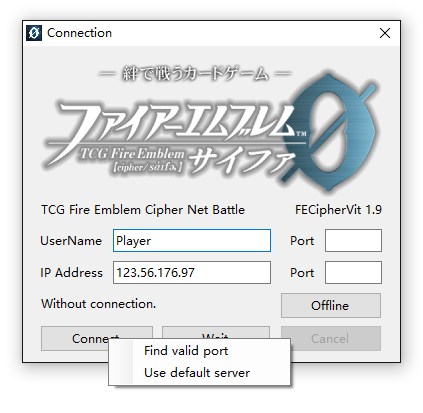
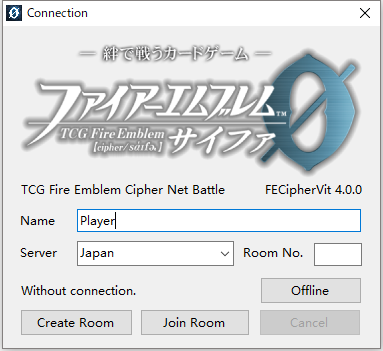
Update connection

diff --git a/connection.md b/connection.md
@@ -1,13 +1,13 @@
 # Connection
 
-1. Active main program "FECipherVit.exe" and enter your username.
-2. One of the player can connect to server: choose the server and click on "Create Room", if the Internet connects normally ,you will see the given room number on the message box after entering the game.
+1. Run the main program "FECipherVit.exe" and enter your username.
+2. Choose server and click on "Create Room".
+3. The connection window will disappear and the main window will open if you successfully connected to the server. Check your room number at the top of message box.
 
 ![](connection.png)
 
-3. Another player can now enter the given room number, click on 
-" Join Room" to finish connecting.
+3. Tell the other player the room number you have just been assigned. The other player should choose server, enter the room number, and click on "Join Room" to get connected.
 
-4. If the game connection breaks, you can use the menu ->"game"->"international connect" to reopen this game. Do not close the program directly or the game will not be able to recover.
+4. If the connection breaks during games, you may click on "game" → "connection" in the menu bar to open this window and try to connect again. Don’t close this program directly or you will lose your game progress.
 
-5. You can watch other players' battle. After they start game,you can enter their room number and click "Join Room" to watch the game.
+5. You may battles between other players by entering their room number and click on "Join Room".
